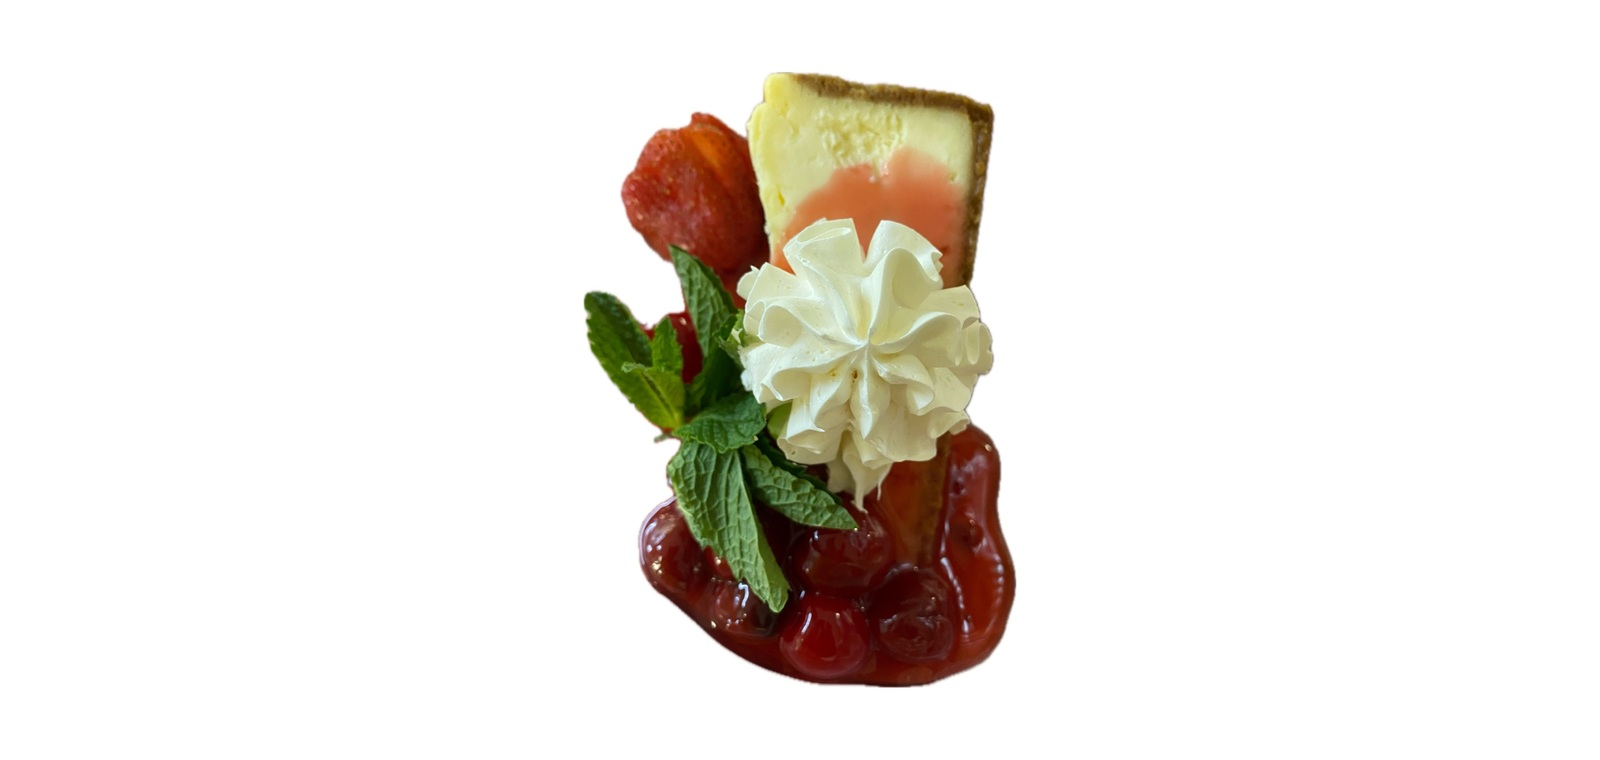
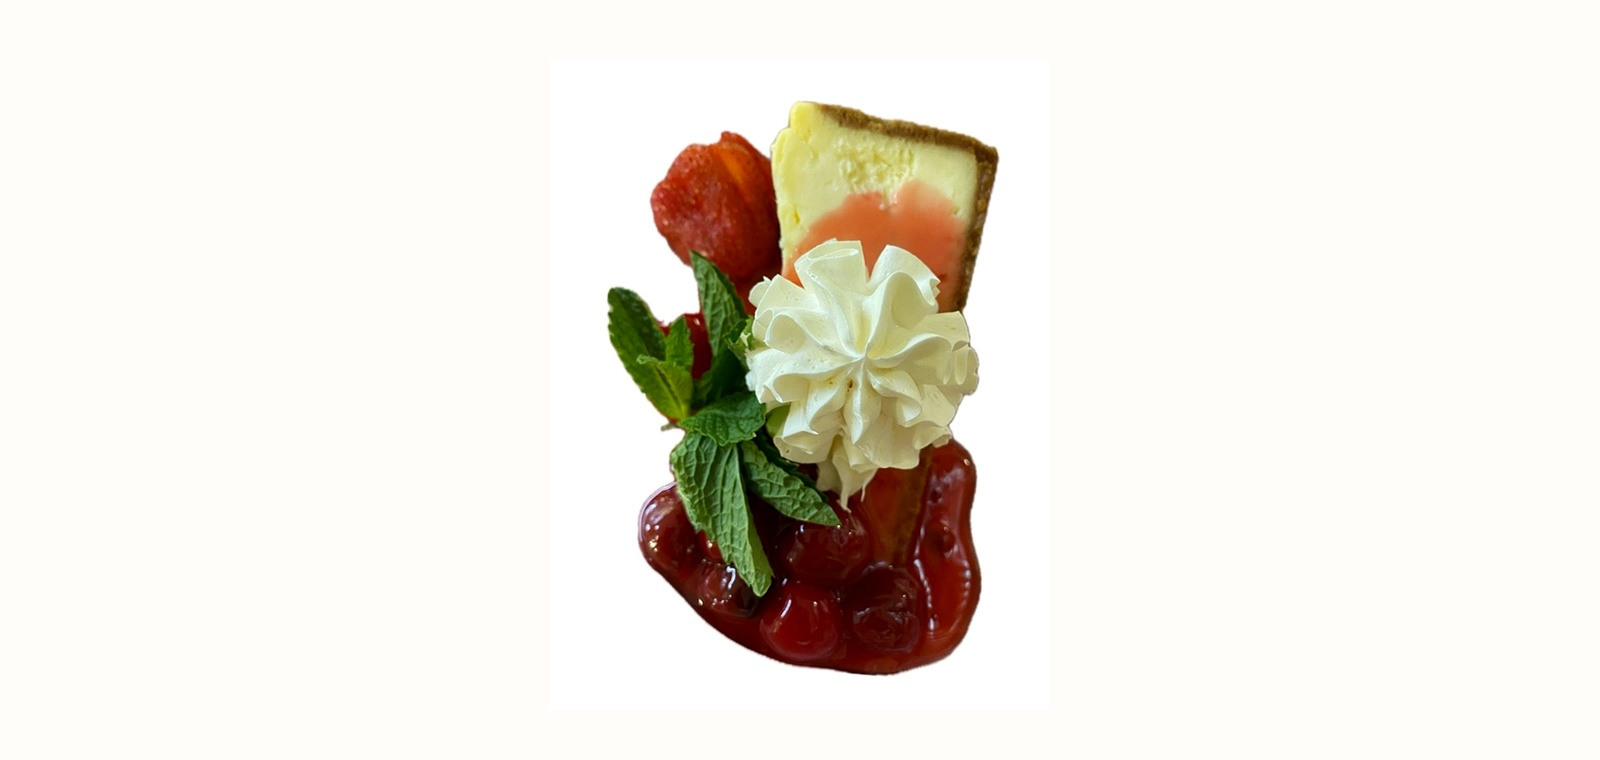
Add files via upload

Changed region(s): [[0.3438, 0.0908, 0.6562, 0.9079]]

diff --git a/styles.css b/styles.css
@@ -20,3 +20,19 @@
 .dessert-tower-showcase img{width:100%;height:auto;max-height:980px;object-fit:contain;object-position:center}
 @media(max-width:1000px){.signature-cheesecake-showcase figure{aspect-ratio:16/9}.dessert-tower-showcase figure{max-width:760px;min-height:0}}
 @media(max-width:640px){.signature-cheesecake-showcase,.dessert-tower-showcase{padding:85px 6vw}.signature-showcase-heading{margin-bottom:30px}.signature-showcase-heading h2{font-size:47px}.signature-cheesecake-showcase figure{aspect-ratio:4/3}.signature-cheesecake-showcase img{object-fit:contain;background:#fff}.dessert-tower-showcase figure{padding:14px}.dessert-tower-showcase img{max-height:none}}
+
+/* Purposeful final refinement: balanced dessert storytelling */
+.signature-cheesecake-showcase,.dessert-tower-showcase{overflow:hidden}
+.signature-showcase-heading{display:flex;flex-direction:column;align-items:center}
+.signature-showcase-heading h2{text-wrap:balance}
+.signature-showcase-heading>p:last-child{text-wrap:pretty}
+.signature-cheesecake-showcase figure{display:flex;align-items:center;justify-content:center;background:#fffdfa}
+.signature-cheesecake-showcase img{object-fit:contain;object-position:center center}
+.dessert-tower-showcase figure{max-width:820px;border-color:#dfd6c7}
+.dessert-tower-showcase img{max-width:720px;margin:auto}
+@media(max-width:640px){
+ .signature-showcase-heading h2{line-height:1.02}
+ .signature-cheesecake-showcase figure{aspect-ratio:4/3}
+ .signature-cheesecake-showcase img{object-fit:contain}
+ .dessert-tower-showcase figure{padding:12px}
+}

diff --git a/index.html b/index.html
@@ -81,20 +81,20 @@
   <div class="signature-showcase-heading">
     <p class="eyebrow">A Cape V Favorite</p>
     <h2 id="signature-cheesecake-title">Signature Cheesecake</h2>
-    <p>A beautifully plated finale where creamy cheesecake, fresh berries and polished presentation share the spotlight.</p>
+    <p>A luxurious finale featuring creamy cheesecake, handcrafted cherry jubilee, hand-whipped cream and a fresh mint finish—beautifully presented in true Cape V style.</p>
   </div>
   <figure>
-    <img alt="Plated signature cheesecake with strawberries, whipped cream and mint" src="signature-cheesecake-horizontal.jpg"/>
+    <img alt="Signature cheesecake with cherry jubilee, hand-whipped cream and fresh mint" src="signature-cheesecake-horizontal.jpg"/>
   </figure>
 </section>
 <section class="dessert-tower-showcase reveal" aria-labelledby="dessert-tower-title">
   <div class="signature-showcase-heading tower-heading">
     <p class="eyebrow">The Grand Finale</p>
-    <h2 id="dessert-tower-title">Signature Dessert Towers</h2>
-    <p>Elegant dessert displays handcrafted to create unforgettable celebrations and a memorable final course.</p>
+    <h2 id="dessert-tower-title">Signature Dessert Tower</h2>
+    <p>A jewel-like presentation of macarons, petit fours, chocolates and fresh berries—designed to turn the final course into a celebration.</p>
   </div>
   <figure>
-    <img alt="Gold three-tier dessert tower with macarons, chocolates and petit fours" src="signature-charcuterie.jpg"/>
+    <img alt="Tiered dessert tower with macarons, chocolates, petit fours and fresh berries" src="signature-dessert-tower-final.jpg"/>
   </figure>
 </section>
 <section class="quote-band">